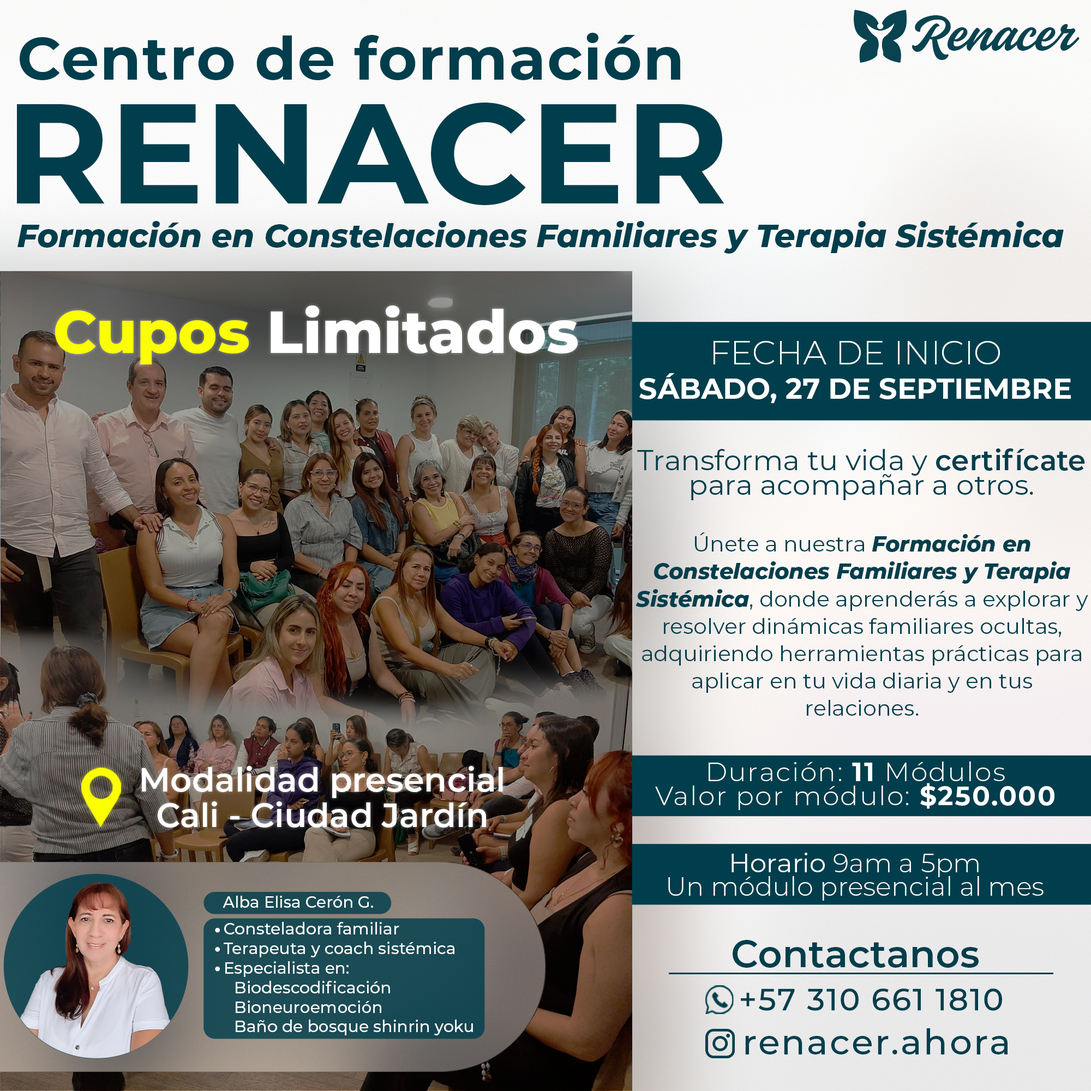
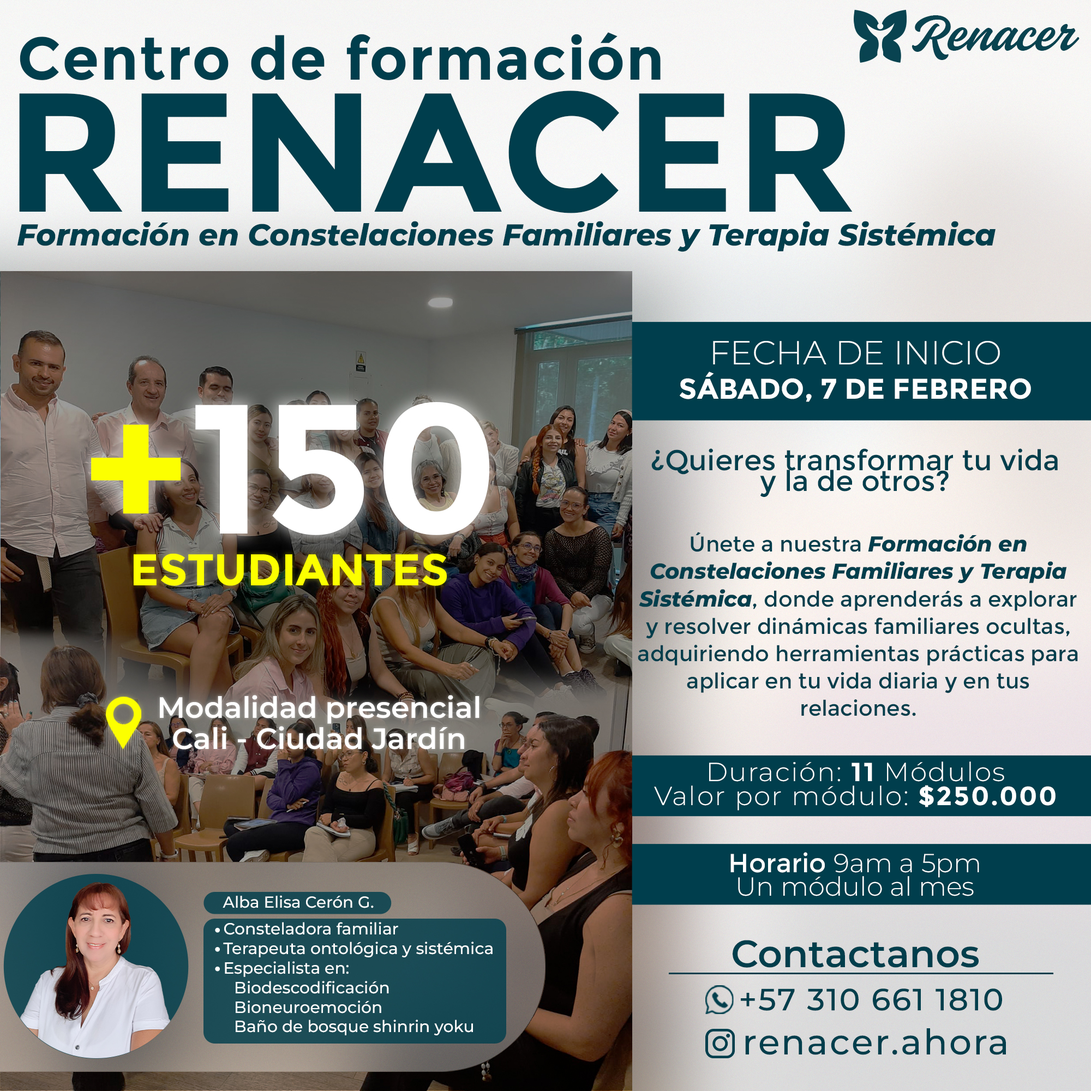
Actualizar formaciÃ³n: corregir imÃ¡genes, agregar videos de testimonios y actualizar fecha a 7 de febrero 2026

diff --git a/src/App.tsx b/src/App.tsx
@@ -330,7 +330,7 @@ function FormacionConstelacionesPage({ onOpenLeadModal }: { onOpenLeadModal?: ()
                 <div className="flex flex-col md:flex-row items-start md:items-center gap-4 md:gap-6">
                   <div className="flex-1">
                     <p className="text-sm text-primary font-medium">Próxima cohorte</p>
-                    <h2 className="text-xl font-semibold mt-1 text-text">Enero del 2026</h2>
+                    <h2 className="text-xl font-semibold mt-1 text-text">7 de febrero de 2026</h2>
                     <ul className="mt-2 text-sm text-text-muted flex flex-wrap gap-x-4 gap-y-1">
                       <li className="flex items-center gap-1">📍 Ciudad Jardín – Cali</li>
                       <li className="flex items-center gap-1">🕘 9:00 am a 5:00 pm</li>
@@ -349,7 +349,7 @@ function FormacionConstelacionesPage({ onOpenLeadModal }: { onOpenLeadModal?: ()
               {/* Por qué elegirnos */}
       <section className="mt-16 grid md:grid-cols-2 gap-8 sm:gap-12 items-center">
         <div className="group overflow-hidden rounded-xl border border-border bg-surface shadow-[var(--shadow-medium)]">
-          <img src="/recursos/fotos/IMG_2637.jpg" alt="Círculo de formación" className="w-full h-60 sm:h-80 object-cover transition-transform duration-500 group-hover:scale-[1.05]" loading="lazy" />
+          <img src="/recursos/fotos/formacion.jpg" alt="Círculo de formación" className="w-full h-60 sm:h-80 object-cover transition-transform duration-500 group-hover:scale-[1.05]" loading="lazy" />
         </div>
         <div className="card-elevated p-6 sm:p-10">
           <div className="flex items-center gap-3 sm:gap-4 mb-4 sm:mb-6">
@@ -374,14 +374,14 @@ function FormacionConstelacionesPage({ onOpenLeadModal }: { onOpenLeadModal?: ()
           <p className="text-lg sm:text-xl text-text-muted leading-relaxed">Durante 11 módulos, adquirirás herramientas prácticas para reconocer y liberar patrones heredados, comprender el movimiento de los sistemas familiares y acompañar a otros en su propio proceso de sanación.</p>
         </div>
         <div className="order-1 md:order-2 group overflow-hidden rounded-xl border border-border bg-surface shadow-[var(--shadow-medium)]">
-          <img src="/recursos/fotos/IMG_2660.jpg" alt="Proceso práctico" className="w-full h-60 sm:h-80 object-cover transition-transform duration-500 group-hover:scale-[1.05]" loading="lazy" />
+          <img src="/recursos/fotos/20250208_143018.jpg" alt="Proceso práctico" className="w-full h-60 sm:h-80 object-cover transition-transform duration-500 group-hover:scale-[1.05]" loading="lazy" />
         </div>
       </section>
 
       {/* Enfoque práctico */}
       <section className="mt-16 grid md:grid-cols-2 gap-8 sm:gap-12 items-center">
         <div className="group overflow-hidden rounded-xl border border-border bg-surface shadow-[var(--shadow-medium)]">
-          <img src="/recursos/fotos/IMG_2669.jpg" alt="Sesión práctica" className="w-full h-60 sm:h-80 object-cover transition-transform duration-500 group-hover:scale-[1.05]" loading="lazy" />
+          <img src="/recursos/fotos/IMG_3985.jpg" alt="Sesión práctica" className="w-full h-60 sm:h-80 object-cover transition-transform duration-500 group-hover:scale-[1.05]" loading="lazy" />
         </div>
         <div className="card-elevated p-6 sm:p-10">
           <div className="flex items-center gap-3 sm:gap-4 mb-4 sm:mb-6">
@@ -431,7 +431,7 @@ function FormacionConstelacionesPage({ onOpenLeadModal }: { onOpenLeadModal?: ()
           <p className="text-lg sm:text-xl text-text-muted leading-relaxed">A diferencia de otros centros, ofrecemos un ambiente cálido y armónico que facilita el aprendizaje y la transformación personal, haciendo que te sientas como en casa.</p>
         </div>
         <div className="order-1 md:order-2 group overflow-hidden rounded-xl border border-border bg-surface shadow-[var(--shadow-medium)]">
-          <img src="/recursos/fotos/IMG_2650.jpg" alt="Ambiente acogedor" className="w-full h-60 sm:h-80 object-cover transition-transform duration-500 group-hover:scale-[1.05]" loading="lazy" />
+          <img src="/recursos/fotos/IMG_3992.jpg" alt="Ambiente acogedor" className="w-full h-60 sm:h-80 object-cover transition-transform duration-500 group-hover:scale-[1.05]" loading="lazy" />
         </div>
       </section>
 
@@ -439,7 +439,7 @@ function FormacionConstelacionesPage({ onOpenLeadModal }: { onOpenLeadModal?: ()
       <section id="proximo-inicio" className="mt-8 card-flat p-6">
         <h2 className="text-lg font-semibold">Próximo inicio</h2>
         <ul className="mt-2 text-sm text-text-muted grid sm:grid-cols-2 gap-x-6 gap-y-1">
-          <li>📆 Fecha de inicio: Enero del 2026</li>
+          <li>📆 Fecha de inicio: 7 de febrero de 2026</li>
           <li>📍 Presencial – Ciudad Jardín – Cali</li>
           <li>🕘 9:00 am a 5:00 pm</li>
         </ul>
@@ -612,123 +612,81 @@ function LandingPage({ onOpenLeadModal }: { onOpenLeadModal: () => void }) {
       {/* Testimonios */}
       <section className="mt-16">
         <div className="text-center mb-8 sm:mb-12">
-          <h2 className="text-2xl sm:text-3xl font-semibold text-text mb-4">Lo que dicen nuestros estudiantes</h2>
-          <p className="text-base sm:text-lg text-text-muted">Experiencias reales de transformación y crecimiento</p>
+          <h2 className="text-2xl sm:text-3xl font-semibold text-text mb-4">Testimonios de nuestros estudiantes graduados</h2>
+          <p className="text-base sm:text-lg text-text-muted">Escucha las experiencias reales de transformación</p>
         </div>
         
         <div className="grid md:grid-cols-2 lg:grid-cols-3 gap-8">
-          {/* Testimonio 1 */}
-          <div className="card-elevated p-6 shadow-xl rounded-2xl">
-            <div className="flex items-center mb-4">
-              <div className="w-12 h-12 bg-gradient-to-r from-primary to-primary-light rounded-full flex items-center justify-center text-white font-semibold text-lg">
-                M
-              </div>
-              <div className="ml-4">
-                <h4 className="font-semibold text-text">María González</h4>
-                <p className="text-sm text-text-muted">Constelaciones Familiares</p>
-              </div>
-            </div>
-            <p className="text-text-muted italic leading-relaxed">
-              "La formación en Renacer transformó completamente mi vida. Aprendí a sanar heridas que no sabía que tenía y ahora puedo ayudar a otros en su proceso de sanación. Alba Elisa es una guía excepcional."
-            </p>
-            <div className="flex text-yellow-400 mt-4">
-              <span>⭐⭐⭐⭐⭐</span>
-            </div>
+          <div className="card-elevated shadow-xl rounded-2xl overflow-hidden">
+            <video 
+              className="w-full h-auto" 
+              controls 
+              preload="metadata"
+              style={{ maxHeight: '400px' }}
+            >
+              <source src="/recursos/testimonios/01.mp4" type="video/mp4" />
+              Tu navegador no soporta el elemento de video.
+            </video>
           </div>
 
-          {/* Testimonio 2 */}
-          <div className="card-elevated p-6 shadow-xl rounded-2xl">
-            <div className="flex items-center mb-4">
-              <div className="w-12 h-12 bg-gradient-to-r from-accent to-accent-light rounded-full flex items-center justify-center text-white font-semibold text-lg">
-                C
-              </div>
-              <div className="ml-4">
-                <h4 className="font-semibold text-text">Carlos Rodríguez</h4>
-                <p className="text-sm text-text-muted">Biodescodificación</p>
-              </div>
-            </div>
-            <p className="text-text-muted italic leading-relaxed">
-              "El ambiente acogedor de Renacer me permitió abrirme completamente al aprendizaje. La biodescodificación me ayudó a entender el origen de mis síntomas y a liberar emociones que me limitaban."
-            </p>
-            <div className="flex text-yellow-400 mt-4">
-              <span>⭐⭐⭐⭐⭐</span>
-            </div>
+          <div className="card-elevated shadow-xl rounded-2xl overflow-hidden">
+            <video 
+              className="w-full h-auto" 
+              controls 
+              preload="metadata"
+              style={{ maxHeight: '400px' }}
+            >
+              <source src="/recursos/testimonios/1001.mp4" type="video/mp4" />
+              Tu navegador no soporta el elemento de video.
+            </video>
           </div>
 
-          {/* Testimonio 3 */}
-          <div className="card-elevated p-6 shadow-xl rounded-2xl">
-            <div className="flex items-center mb-4">
-              <div className="w-12 h-12 bg-gradient-to-r from-primary to-primary-light rounded-full flex items-center justify-center text-white font-semibold text-lg">
-                A
-              </div>
-              <div className="ml-4">
-                <h4 className="font-semibold text-text">Ana Martínez</h4>
-                <p className="text-sm text-text-muted">Constelaciones Familiares</p>
-              </div>
-            </div>
-            <p className="text-text-muted italic leading-relaxed">
-              "Una experiencia única. No solo aprendí técnicas, sino que me conecté con mi esencia. El enfoque práctico y vivencial hace que cada sesión sea transformadora. Altamente recomendado."
-            </p>
-            <div className="flex text-yellow-400 mt-4">
-              <span>⭐⭐⭐⭐⭐</span>
-            </div>
+          <div className="card-elevated shadow-xl rounded-2xl overflow-hidden">
+            <video 
+              className="w-full h-auto" 
+              controls 
+              preload="metadata"
+              style={{ maxHeight: '400px' }}
+            >
+              <source src="/recursos/testimonios/1001 (2.mp4" type="video/mp4" />
+              Tu navegador no soporta el elemento de video.
+            </video>
           </div>
 
-          {/* Testimonio 4 */}
-          <div className="card-elevated p-6 shadow-xl rounded-2xl">
-            <div className="flex items-center mb-4">
-              <div className="w-12 h-12 bg-gradient-to-r from-accent to-accent-light rounded-full flex items-center justify-center text-white font-semibold text-lg">
-                L
-              </div>
-              <div className="ml-4">
-                <h4 className="font-semibold text-text">Luis Herrera</h4>
-                <p className="text-sm text-text-muted">Biodescodificación</p>
-              </div>
-            </div>
-            <p className="text-text-muted italic leading-relaxed">
-              "La formación superó todas mis expectativas. Alba Elisa tiene un don especial para guiar el proceso de sanación. Ahora trabajo como terapeuta y veo resultados increíbles en mis clientes."
-            </p>
-            <div className="flex text-yellow-400 mt-4">
-              <span>⭐⭐⭐⭐⭐</span>
-            </div>
+          <div className="card-elevated shadow-xl rounded-2xl overflow-hidden">
+            <video 
+              className="w-full h-auto" 
+              controls 
+              preload="metadata"
+              style={{ maxHeight: '400px' }}
+            >
+              <source src="/recursos/testimonios/27 (1).mp4" type="video/mp4" />
+              Tu navegador no soporta el elemento de video.
+            </video>
           </div>
 
-          {/* Testimonio 5 */}
-          <div className="card-elevated p-6 shadow-xl rounded-2xl">
-            <div className="flex items-center mb-4">
-              <div className="w-12 h-12 bg-gradient-to-r from-primary to-primary-light rounded-full flex items-center justify-center text-white font-semibold text-lg">
-                S
-              </div>
-              <div className="ml-4">
-                <h4 className="font-semibold text-text">Sofia Jiménez</h4>
-                <p className="text-sm text-text-muted">Constelaciones Familiares</p>
-              </div>
-            </div>
-            <p className="text-text-muted italic leading-relaxed">
-              "Renacer no es solo un centro de formación, es un espacio de sanación. El ambiente cálido y la metodología práctica me permitieron integrar los conocimientos de manera profunda y duradera."
-            </p>
-            <div className="flex text-yellow-400 mt-4">
-              <span>⭐⭐⭐⭐⭐</span>
-            </div>
+          <div className="card-elevated shadow-xl rounded-2xl overflow-hidden">
+            <video 
+              className="w-full h-auto" 
+              controls 
+              preload="metadata"
+              style={{ maxHeight: '400px' }}
+            >
+              <source src="/recursos/testimonios/1001).mp4" type="video/mp4" />
+              Tu navegador no soporta el elemento de video.
+            </video>
           </div>
 
-          {/* Testimonio 6 */}
-          <div className="card-elevated p-6 shadow-xl rounded-2xl">
-            <div className="flex items-center mb-4">
-              <div className="w-12 h-12 bg-gradient-to-r from-accent to-accent-light rounded-full flex items-center justify-center text-white font-semibold text-lg">
-                R
-              </div>
-              <div className="ml-4">
-                <h4 className="font-semibold text-text">Roberto Silva</h4>
-                <p className="text-sm text-text-muted">Biodescodificación</p>
-              </div>
-            </div>
-            <p className="text-text-muted italic leading-relaxed">
-              "La formación en biodescodificación me abrió los ojos a una nueva forma de entender la salud. Los módulos están muy bien estructurados y el acompañamiento es excepcional. Una inversión que vale la pena."
-            </p>
-            <div className="flex text-yellow-400 mt-4">
-              <span>⭐⭐⭐⭐⭐</span>
-            </div>
+          <div className="card-elevated shadow-xl rounded-2xl overflow-hidden">
+            <video 
+              className="w-full h-auto" 
+              controls 
+              preload="metadata"
+              style={{ maxHeight: '400px' }}
+            >
+              <source src="/recursos/testimonios/1001 (.mp4" type="video/mp4" />
+              Tu navegador no soporta el elemento de video.
+            </video>
           </div>
         </div>
       </section>
